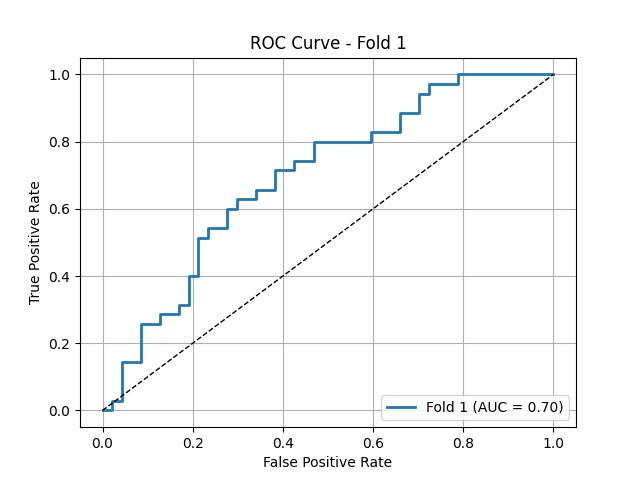
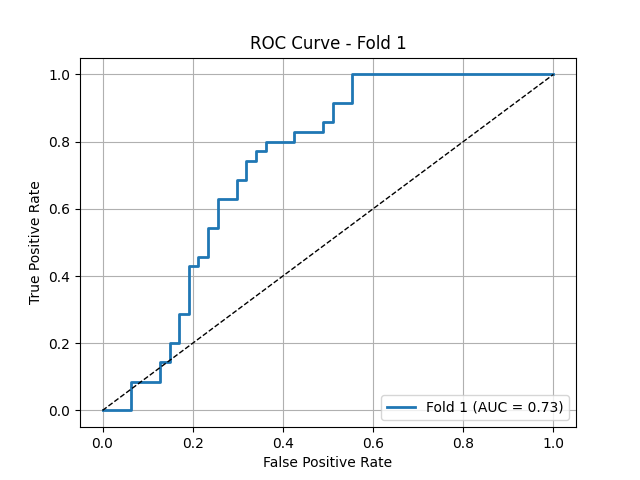
modelbaseline recheck

diff --git a/train_washu2_classifier.py b/train_washu2_classifier.py
@@ -8,7 +8,7 @@ from torch import nn
 from torch.utils.data import DataLoader, random_split
 from torchvision import transforms, datasets
 from datetime import datetime
-from models import BinaryClassification
+from models_mybase import BinaryClassification
 from dataset_washu2 import Classificaiton_Dataset
 from dataset_washu2_p1_43 import Classificaiton_Dataset as Classificaiton_Dataset_test
 import subprocess
